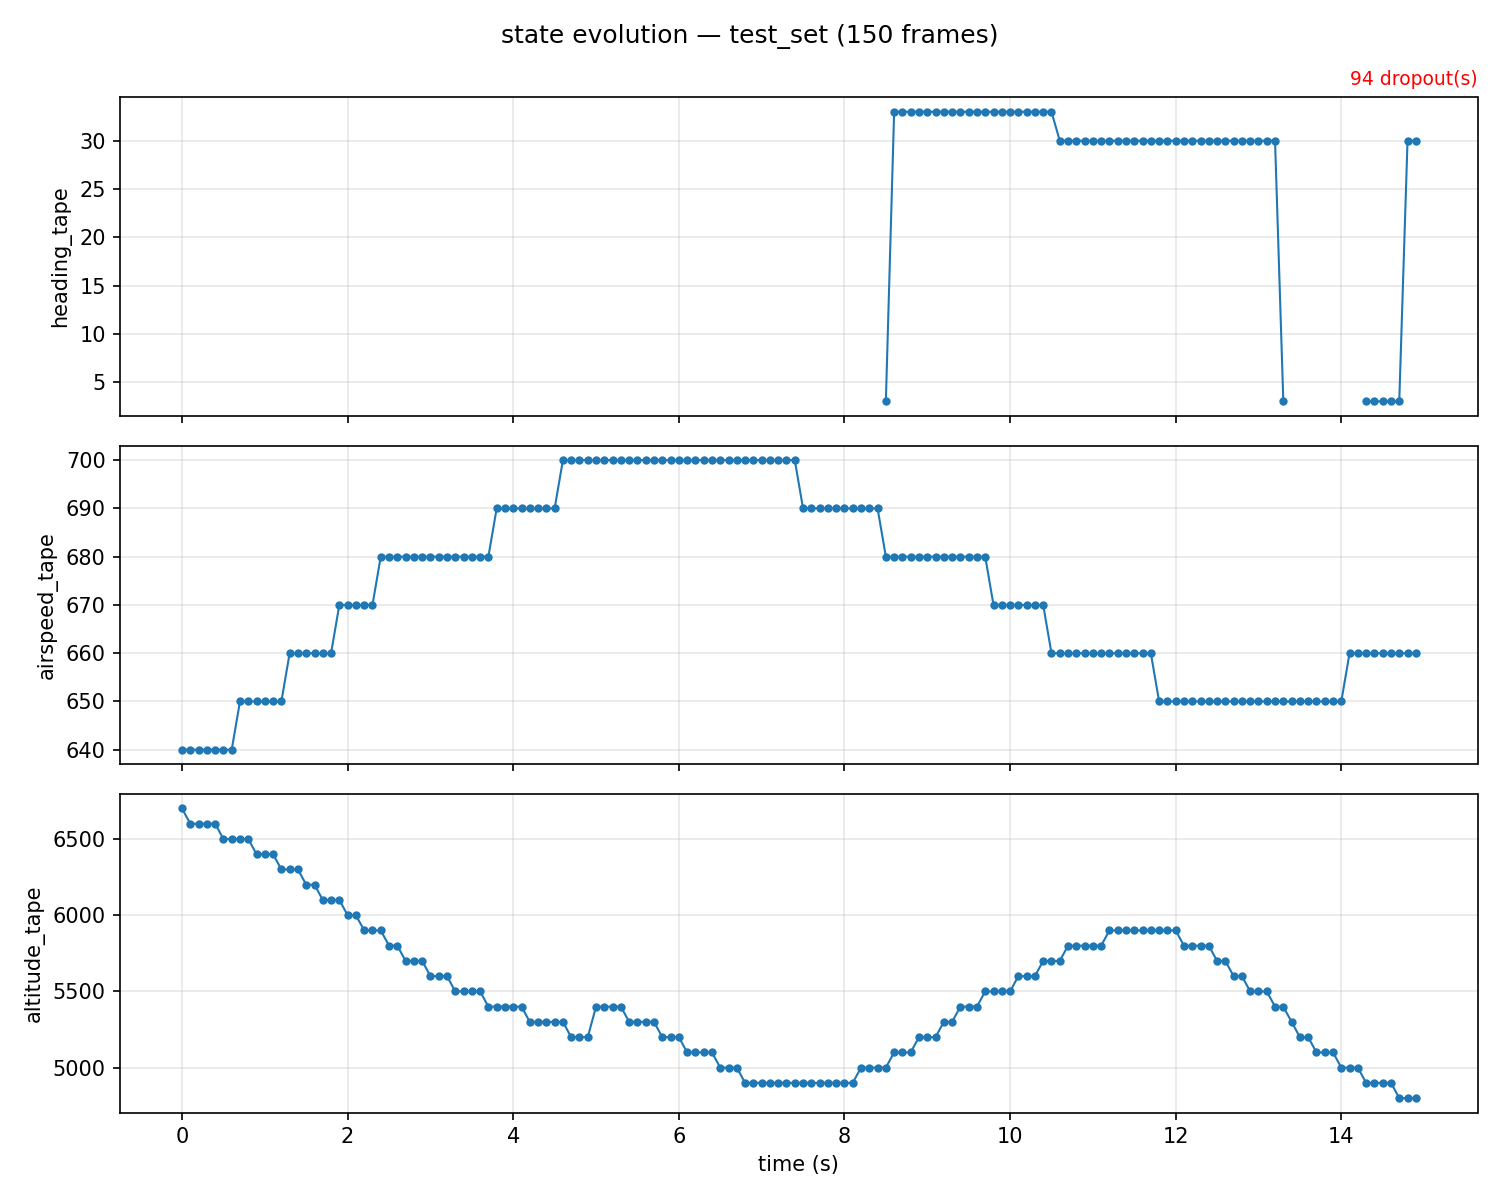
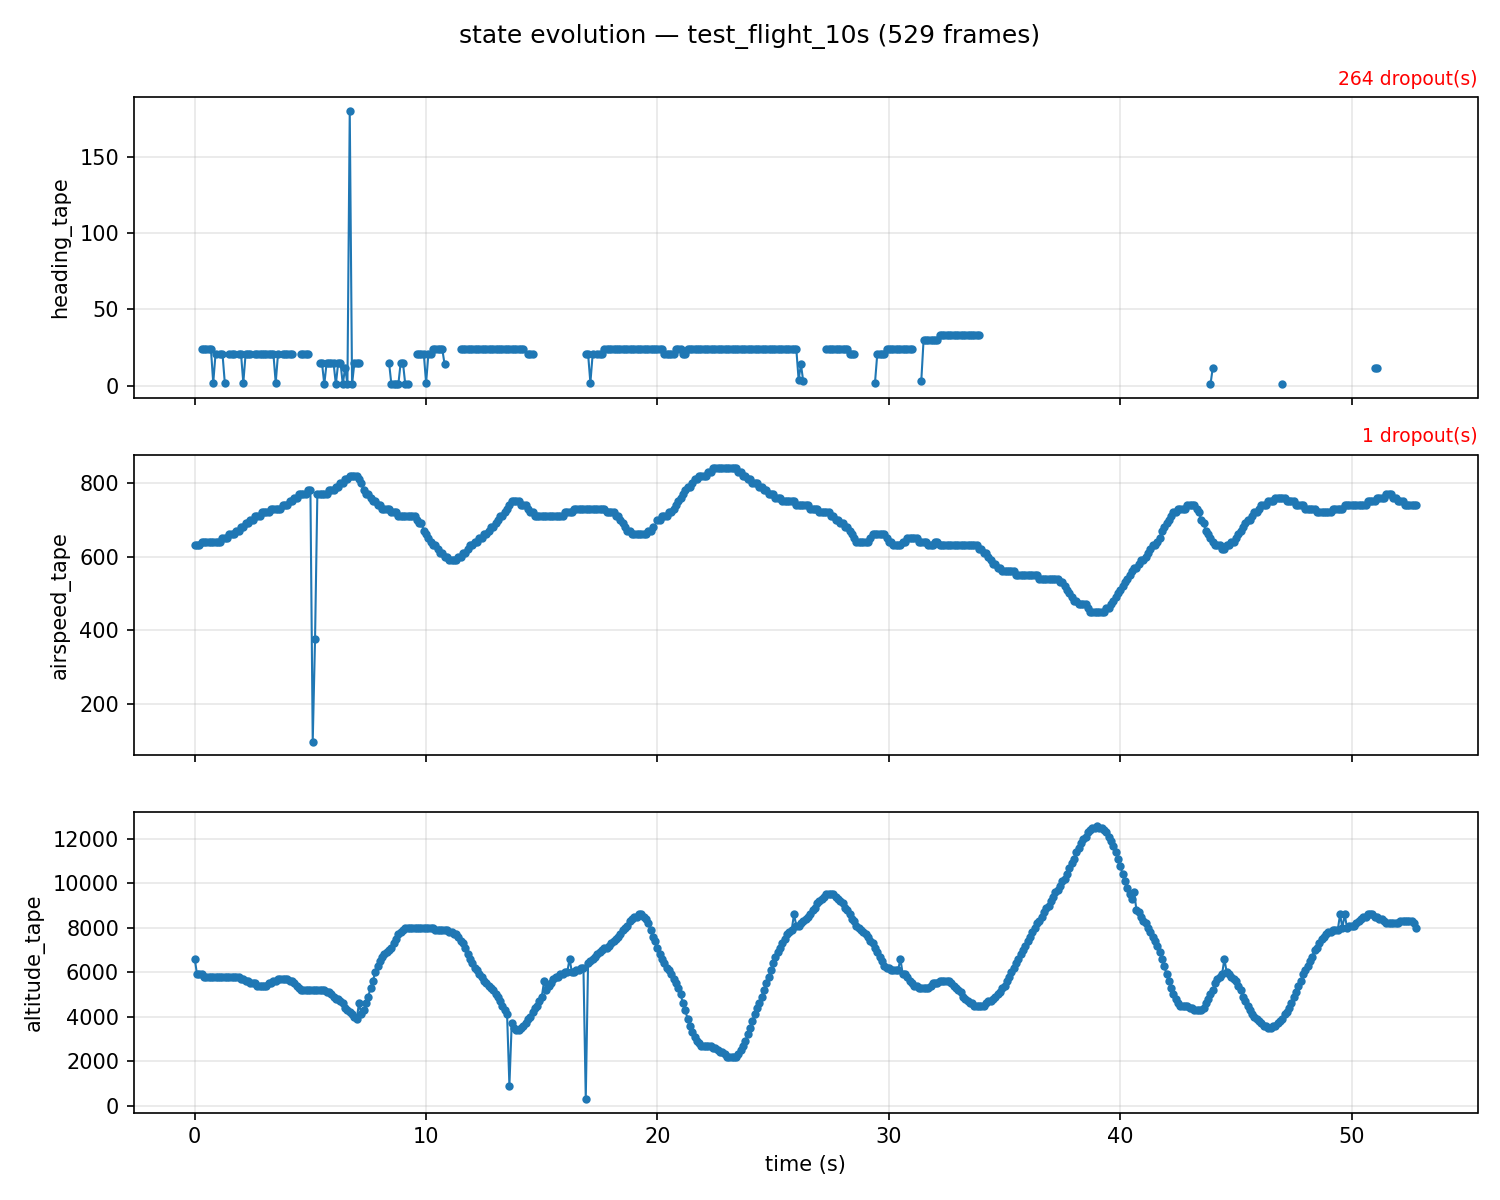
state evolution testing

diff --git a/scripts/build_test_set_flight.py b/scripts/build_test_set_flight.py
@@ -35,9 +35,9 @@ from src.utils.timing import RateLimiter
 from scripts.calibrate_rois import find_window, screenshot_window
 
 
-CAPTURE_HZ = 10.0
-CAPTURE_DURATION_S = 10.0
-PRE_CAPTURE_DELAY_S = 3.0
+CAPTURE_HZ = 2.0
+CAPTURE_DURATION_S = 500.0
+PRE_CAPTURE_DELAY_S = 5.0
 
 
 def _read_key() -> str:

diff --git a/scripts/plot_state_evolution.py b/scripts/plot_state_evolution.py
@@ -53,7 +53,7 @@ def crop_image(img, roi: dict):
 
 def main():
     root = get_project_root()
-    folder_name = sys.argv[1] if len(sys.argv) > 1 else 'test_set'
+    folder_name = sys.argv[1] if len(sys.argv) > 1 else 'test_flight_10s'
     frames_dir = os.path.join(root, 'data', 'screenshots', folder_name)
     rois_path = os.path.join(root, 'config', 'rois.yaml')
 